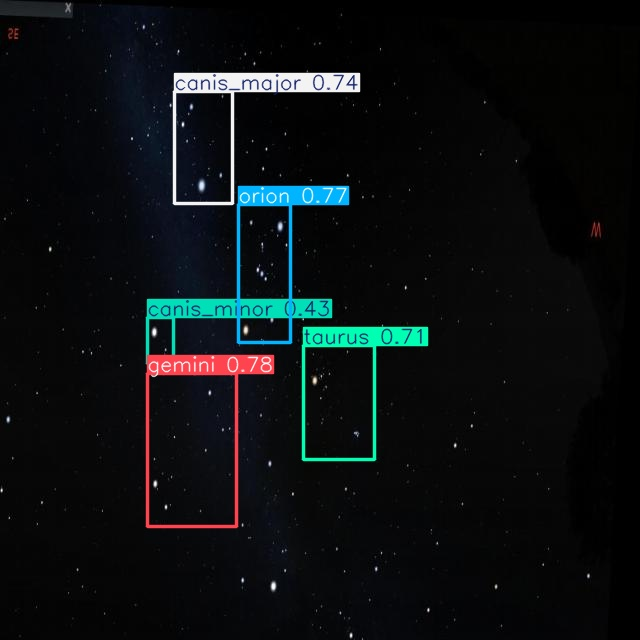
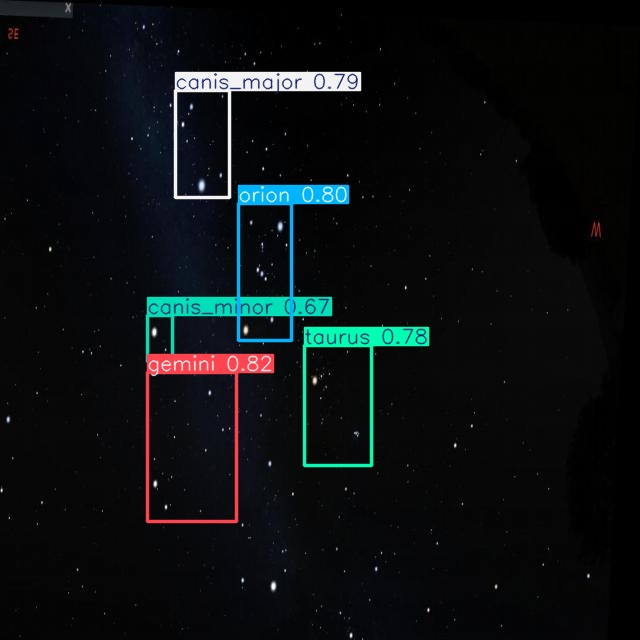
working version

Changed region(s): [[0.2188, 0.0938, 0.5938, 0.75], [0.2188, 0.8125, 0.375, 0.8438], [0.5938, 0.5, 0.6875, 0.5625]]

diff --git a/flask-backend/app/routes.py b/flask-backend/app/routes.py
@@ -17,7 +17,7 @@ def predict():
         file_path = os.path.join('saved-imgs/', filename)
         file.save(file_path)
         #return jsonify({'prediction': prediction})
-        model = YOLO('C:/constellation_identifier/runs/detect/trainyolo11m-1-17/weights/best.pt')
+        model = YOLO('C:/constellation_identifier/runs/detect/train15/weights/best.pt')
         results = model([file_path])
         results[0].save(f'processed-imgs/{filename}')
         classes = results[0].boxes.cls

diff --git a/flask-frontend/app/routes.py b/flask-frontend/app/routes.py
@@ -41,7 +41,7 @@ def upload():
     image_bytes = None
 
     for part in multipart_data.parts:
-        cd = part.headers.get(b'Content-Disposition', b'').decode()
+        cd = part.headers.get(b'Content-Disposition', b'').decode('utf-8')
         if 'result_dict' in cd:
             json_response = json.loads(part.text)
         elif 'result_img' in cd:
